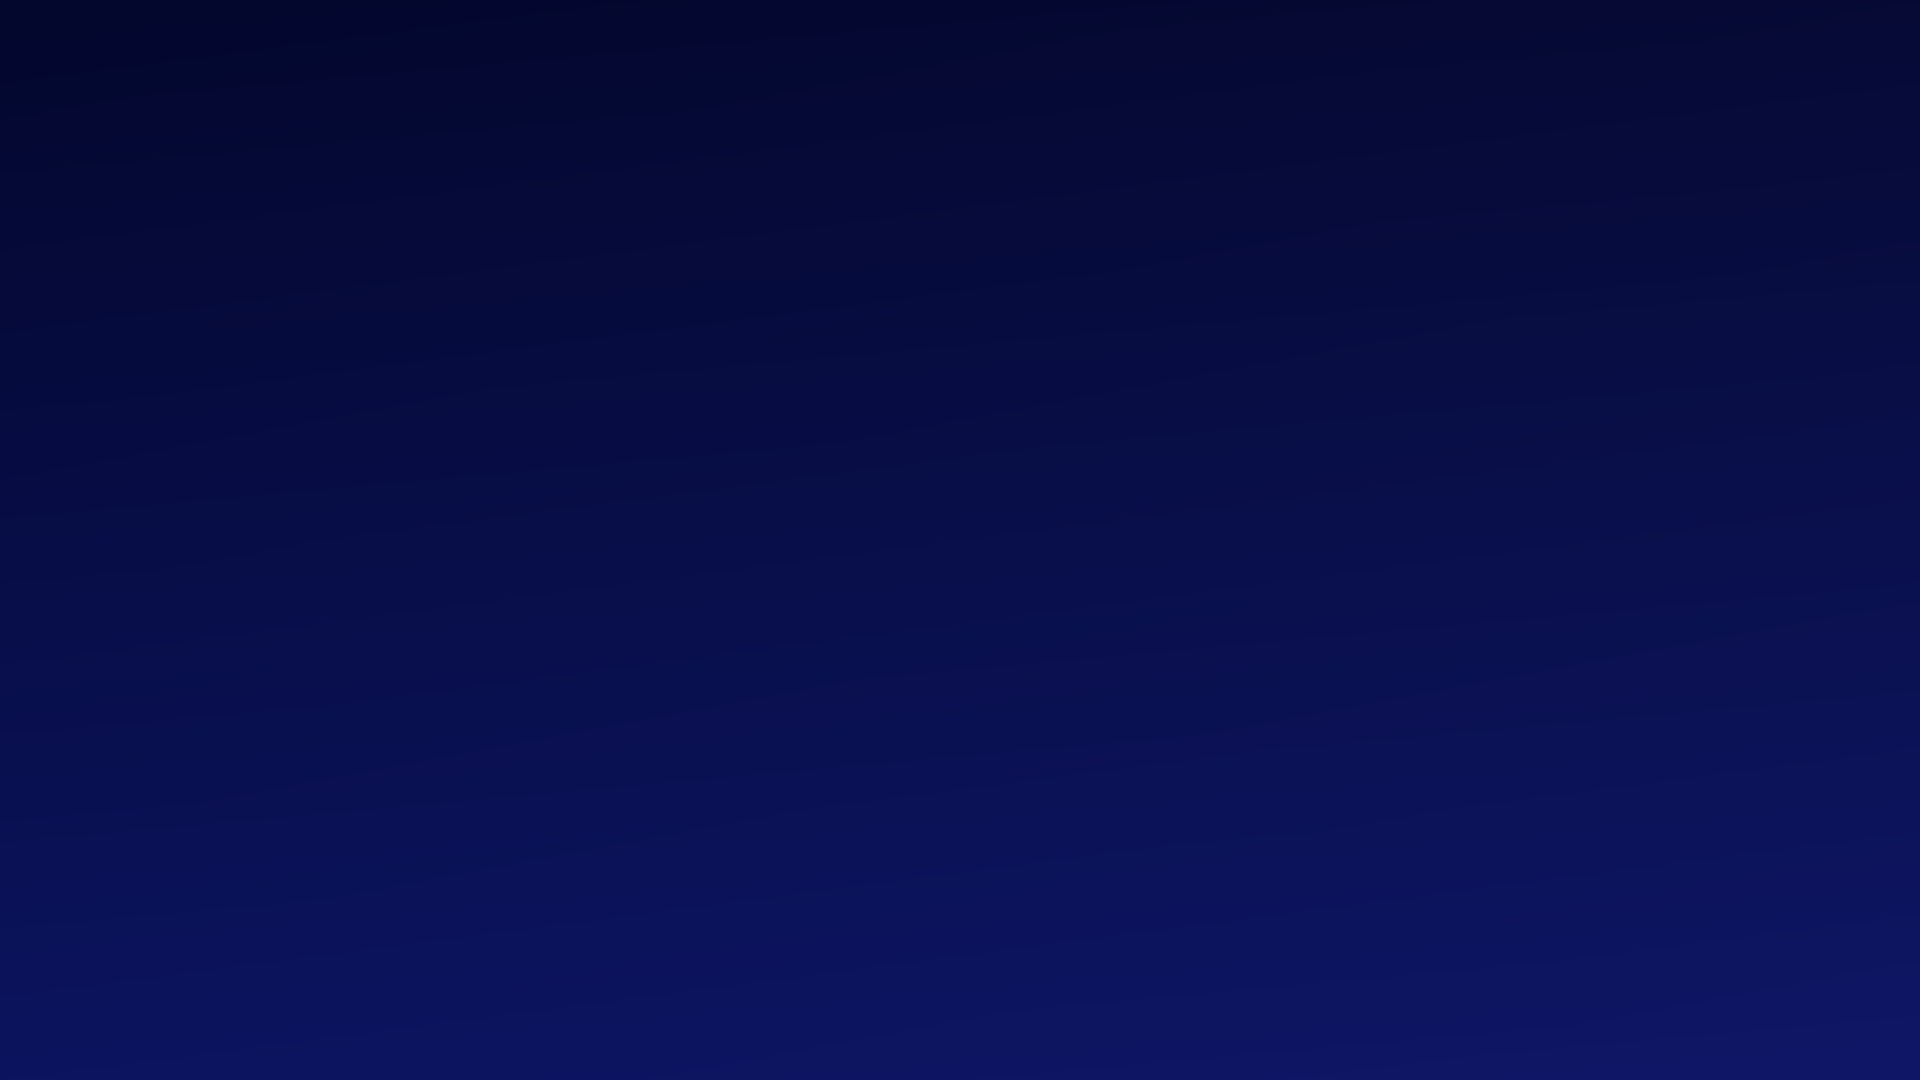
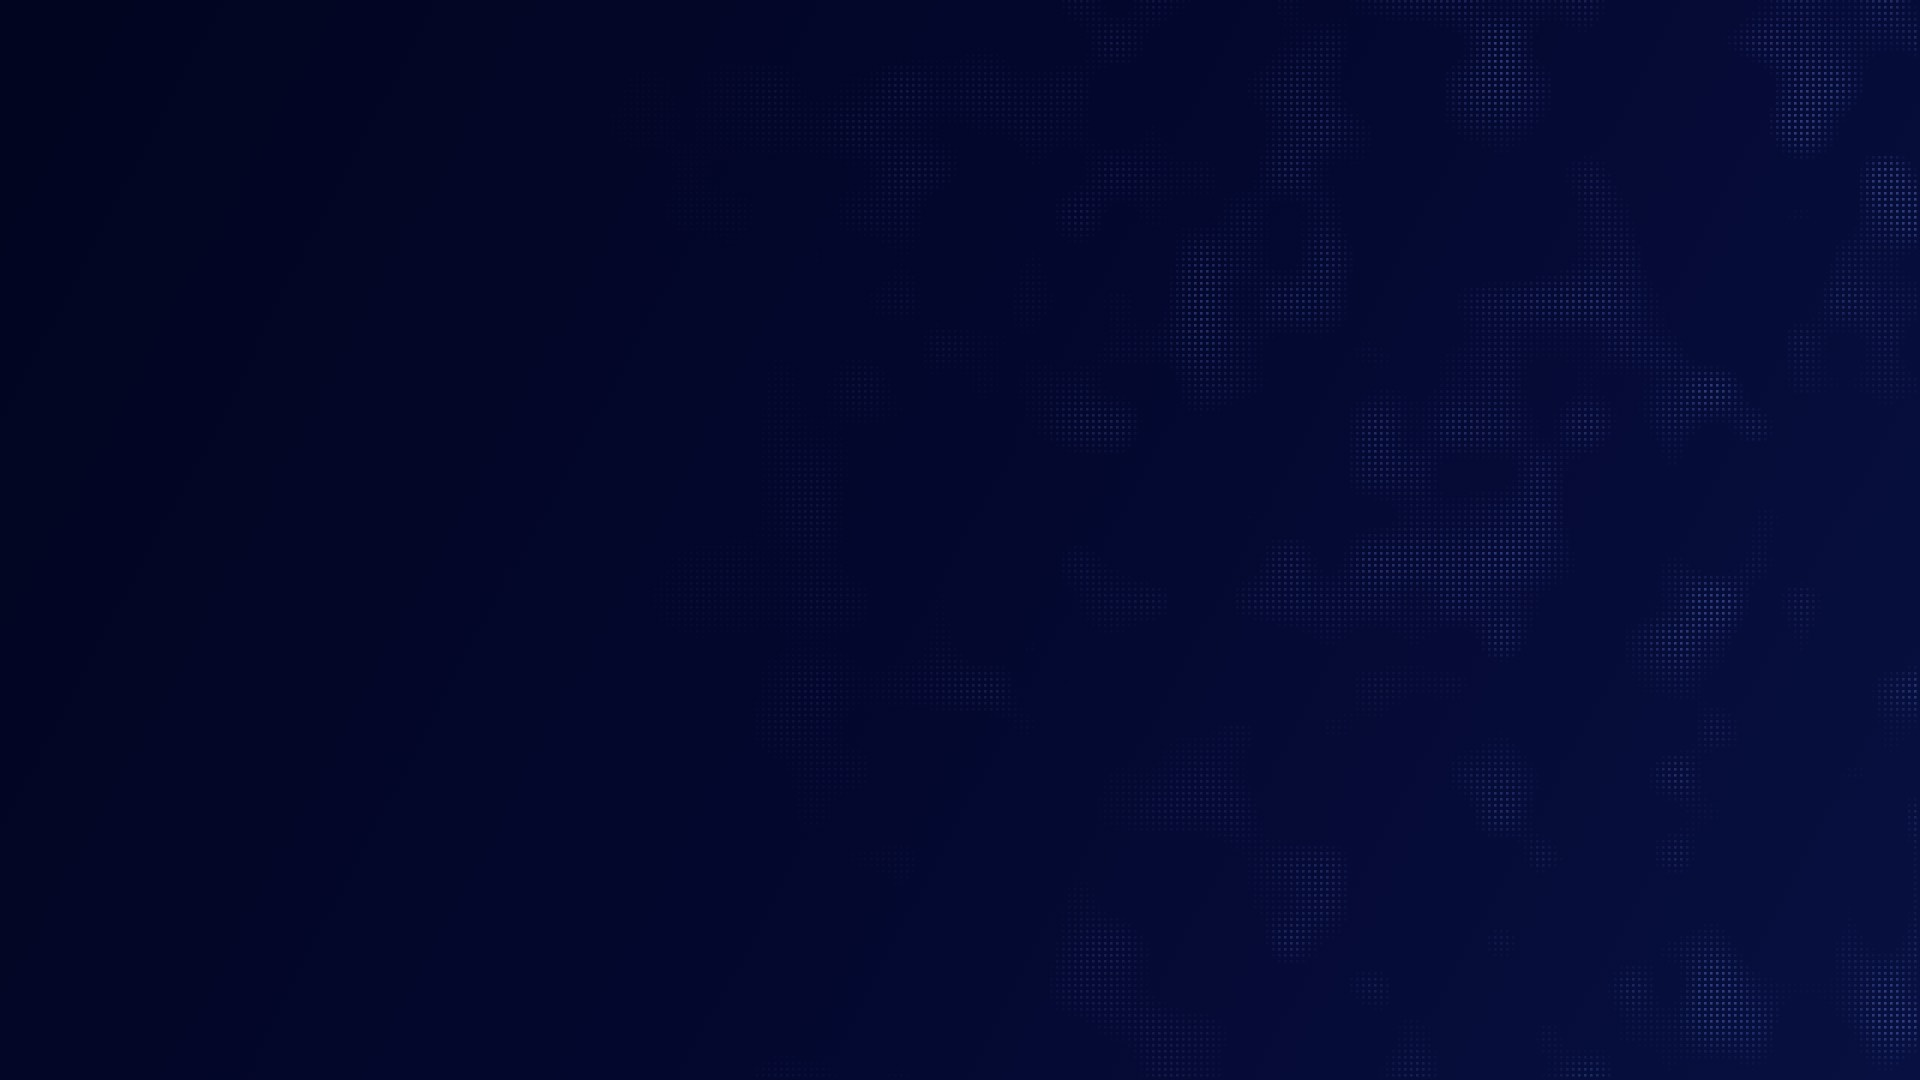
v3 polish: brand textures, OG card, footer capture, motion fixes
- Band background rebuilt from the site's own dither motif (prussian
  gradient + sapphire halftone clusters) replacing the flat stand-in;
  used by every dark header band and plate.
- Proper 1200x630 social card (public/brand/og-card.png) built from the
  same motif + wordmark + positioning line; layout OG/Twitter now point
  at it instead of the old 1500x500 footer banner.
- Footer regains email capture (mono label + input -> /api/subscribe
  via forms.js), styled for the dark band.
- Research cover hover-zoom carried over to <img>/.rcard-ph (the
  handoff rule targeted <image-slot>, which the port replaced, so the
  motion was dead); reduced-motion guard included.
- In-page anchors get scroll-margin under the fixed nav.

diff --git a/app/v3/adaptations.css b/app/v3/adaptations.css
@@ -36,3 +36,41 @@ svg.caret { width: 12px; height: 12px; }
 .crumb { font-family: var(--font-mono); font-size: 11px; text-transform: uppercase; letter-spacing: 0.08em; color: var(--text-tertiary); }
 [data-theme="dark"] .crumb, .page-header.ph-rel .crumb { color: var(--sapphire-300); }
 a.crumb:hover { color: #fff; }
+
+/* 6. Polish pass (2026-11-01).
+      a) The handoff's cover hover-zoom targeted <image-slot>; the port renders
+         <img> / .rcard-ph — carry the same motion over. */
+.rcard-cover img, .rcard-cover .rcard-ph,
+.rfeature-ratio img, .rfeature-ratio .rcard-ph {
+  position: absolute; inset: 0;
+  transform: scale(1);
+  transition: transform 640ms cubic-bezier(.22, .61, .36, 1);
+}
+.rcard:hover .rcard-cover img, .rcard:hover .rcard-cover .rcard-ph { transform: scale(1.06); }
+.rfeature:hover .rfeature-ratio img, .rfeature:hover .rfeature-ratio .rcard-ph { transform: scale(1.05); }
+@media (prefers-reduced-motion: reduce) {
+  .rcard-cover img, .rcard-cover .rcard-ph, .rfeature-ratio img, .rfeature-ratio .rcard-ph { transition: none; }
+}
+
+/*    b) In-page anchors land clear of the fixed nav. */
+section[id], [id^="faq"], h2[id] { scroll-margin-top: calc(var(--nav-h, 96px) + 16px); }
+
+/*    c) Footer newsletter — the v2 footer captured email; the v3 design
+         dropped it. Restored, wired to /api/subscribe via forms.js. */
+.footer-sub { margin-top: 22px; max-width: 420px; }
+.footer-sub p { font-family: var(--font-mono); font-size: 11px; letter-spacing: .08em; text-transform: uppercase; color: rgba(255,255,255,.55); margin: 0 0 10px; }
+.footer-sub form { display: flex; gap: 8px; }
+.footer-sub input {
+  flex: 1; min-width: 0; height: 44px; padding: 0 14px;
+  background: rgba(255,255,255,.06); border: 1px solid rgba(255,255,255,.18);
+  border-radius: var(--radius-md); color: #fff; font-family: var(--font-sans); font-size: 14px;
+}
+.footer-sub input::placeholder { color: rgba(255,255,255,.4); }
+.footer-sub input:focus { outline: none; border-color: var(--sapphire-400); box-shadow: 0 0 0 3px rgba(126,151,249,.25); }
+.footer-sub button {
+  height: 44px; padding: 0 18px; border: 0; border-radius: var(--radius-md);
+  background: var(--sapphire-500); color: #fff; font-family: var(--font-sans);
+  font-size: 14px; font-weight: 600; cursor: pointer; transition: background 150ms;
+}
+.footer-sub button:hover { background: var(--sapphire-400); }
+.footer-sub .form-done { color: rgba(255,255,255,.75); font-size: 13px; margin-top: 8px; }

diff --git a/app/layout.tsx b/app/layout.tsx
@@ -48,9 +48,9 @@ export const metadata: Metadata = {
       "What your protocol earned, paid out, spent and kept last month — every figure traceable to the run behind it. Numbers you can defend in public.",
     images: [
       {
-        url: "/images/footer-bg.png",
-        width: 1500,
-        height: 500,
+        url: "/brand/og-card.png",
+        width: 1200,
+        height: 630,
         alt: "Datum Labs — financial data and reporting for blockchain protocols",
       },
     ],
@@ -59,7 +59,7 @@ export const metadata: Metadata = {
     card: "summary_large_image",
     title: "Datum Labs — Financial Data & Reporting for Blockchain Protocols",
     description: "What your protocol earned, paid out, spent and kept last month. Numbers you can defend in public.",
-    images: ["/images/footer-bg.png"],
+    images: ["/brand/og-card.png"],
     creator: "@Datumlabs_",
   },
   robots: {

diff --git a/components/v3/site-chrome.tsx b/components/v3/site-chrome.tsx
@@ -113,6 +113,13 @@ export function FooterV3() {
               <a href={LINKS.linkedin} target="_blank" rel="noopener" aria-label="LinkedIn"><LinkedinLogo weight="duotone" aria-hidden="true" /><span>LinkedIn</span></a>
               <a href={LINKS.email} aria-label="Email"><EnvelopeSimple weight="duotone" aria-hidden="true" /><span>Email</span></a>
             </div>
+            <div className="footer-sub">
+              <p>Protocol finance &amp; research, monthly</p>
+              <form data-form data-endpoint="/api/subscribe" data-subject="Footer subscribe" data-done="You are on the list.">
+                <input type="email" name="email" placeholder="Enter your email" aria-label="Email" required autoComplete="email" />
+                <button type="submit">Subscribe</button>
+              </form>
+            </div>
           </div>
 
           <div className="footer-col">
